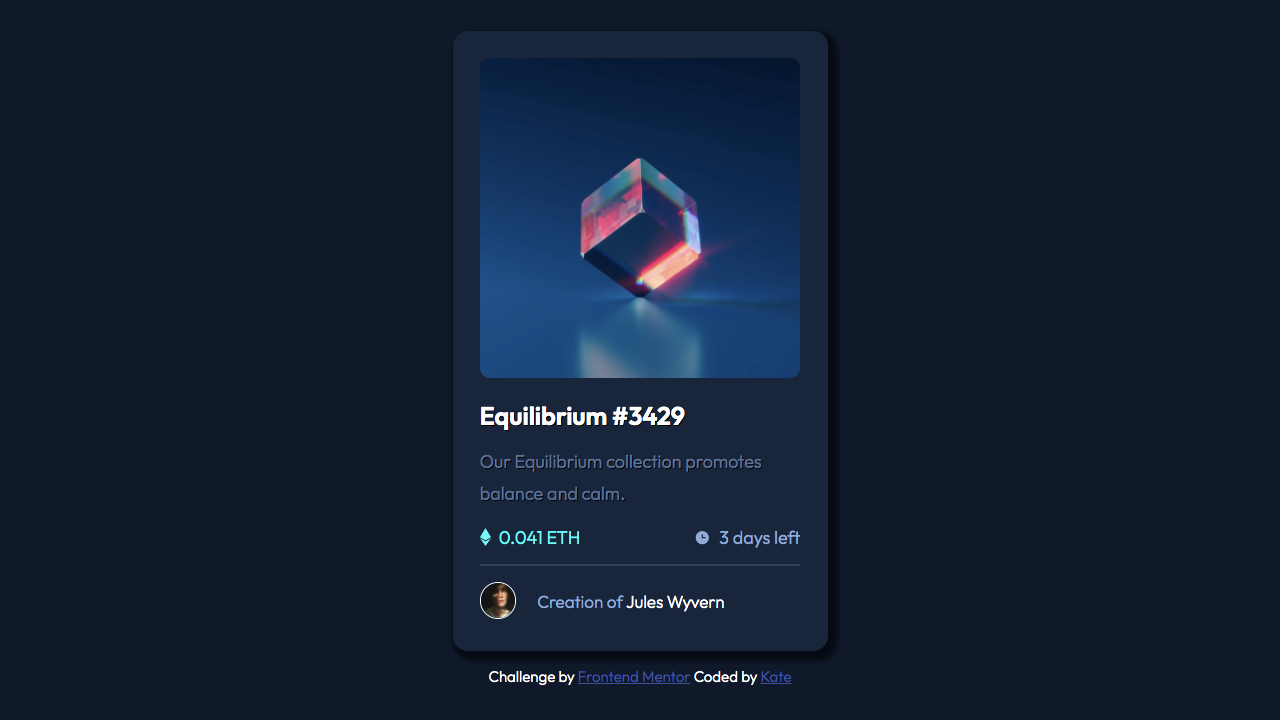
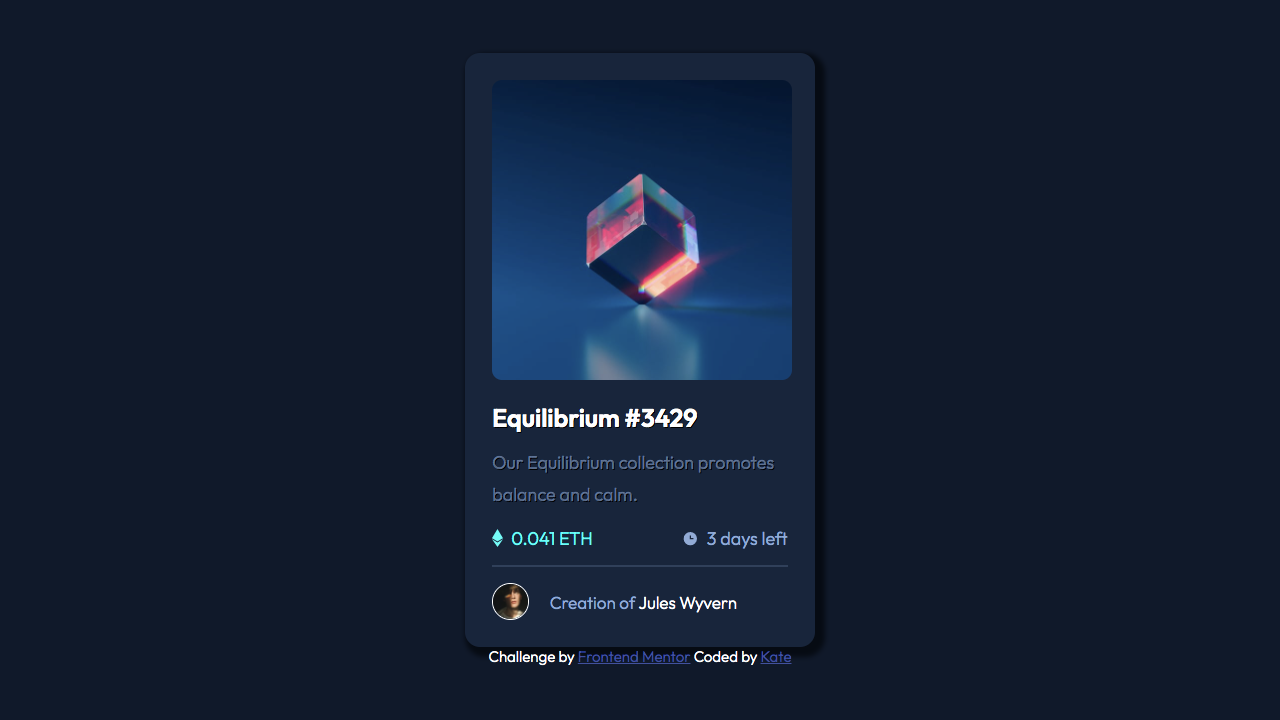
Updated HTML, CSS and README

diff --git a/NFT-preview-card/style.css b/NFT-preview-card/style.css
@@ -19,27 +19,26 @@ body {
     font-family: "Outfit", sans-serif;
     font-size: 18px;
     background-color: var(--main-bg);
+    min-height: 100vh;
+    display: flex;
+    align-items: center;
+    justify-content: center;
+    flex-direction: column;
 }
 
 .container {
-    width: 375px;
-    height: 620px;
+    max-width: 350px;
     background-color: var(--card-bg);
     padding: 1.7rem;
     border-radius: 15px;
-    margin-left: auto;
-    margin-right: auto;
-    margin-top: 2rem;
-    margin-bottom: 1rem;
-    float: center;
     box-shadow: 5px 5px 5px 5px hsl(218, 57%, 5%);
 }
 
 /* CODE LEARNT FROM @AdrianoEscarabote */
 
 .nft-image {
-    height: 320px;
-    width: 320px;
+    height: 300px;
+    width: 300px;
     background: url("/images/image-equilibrium.jpg");
     background-size: 100%;
     display: flex;
